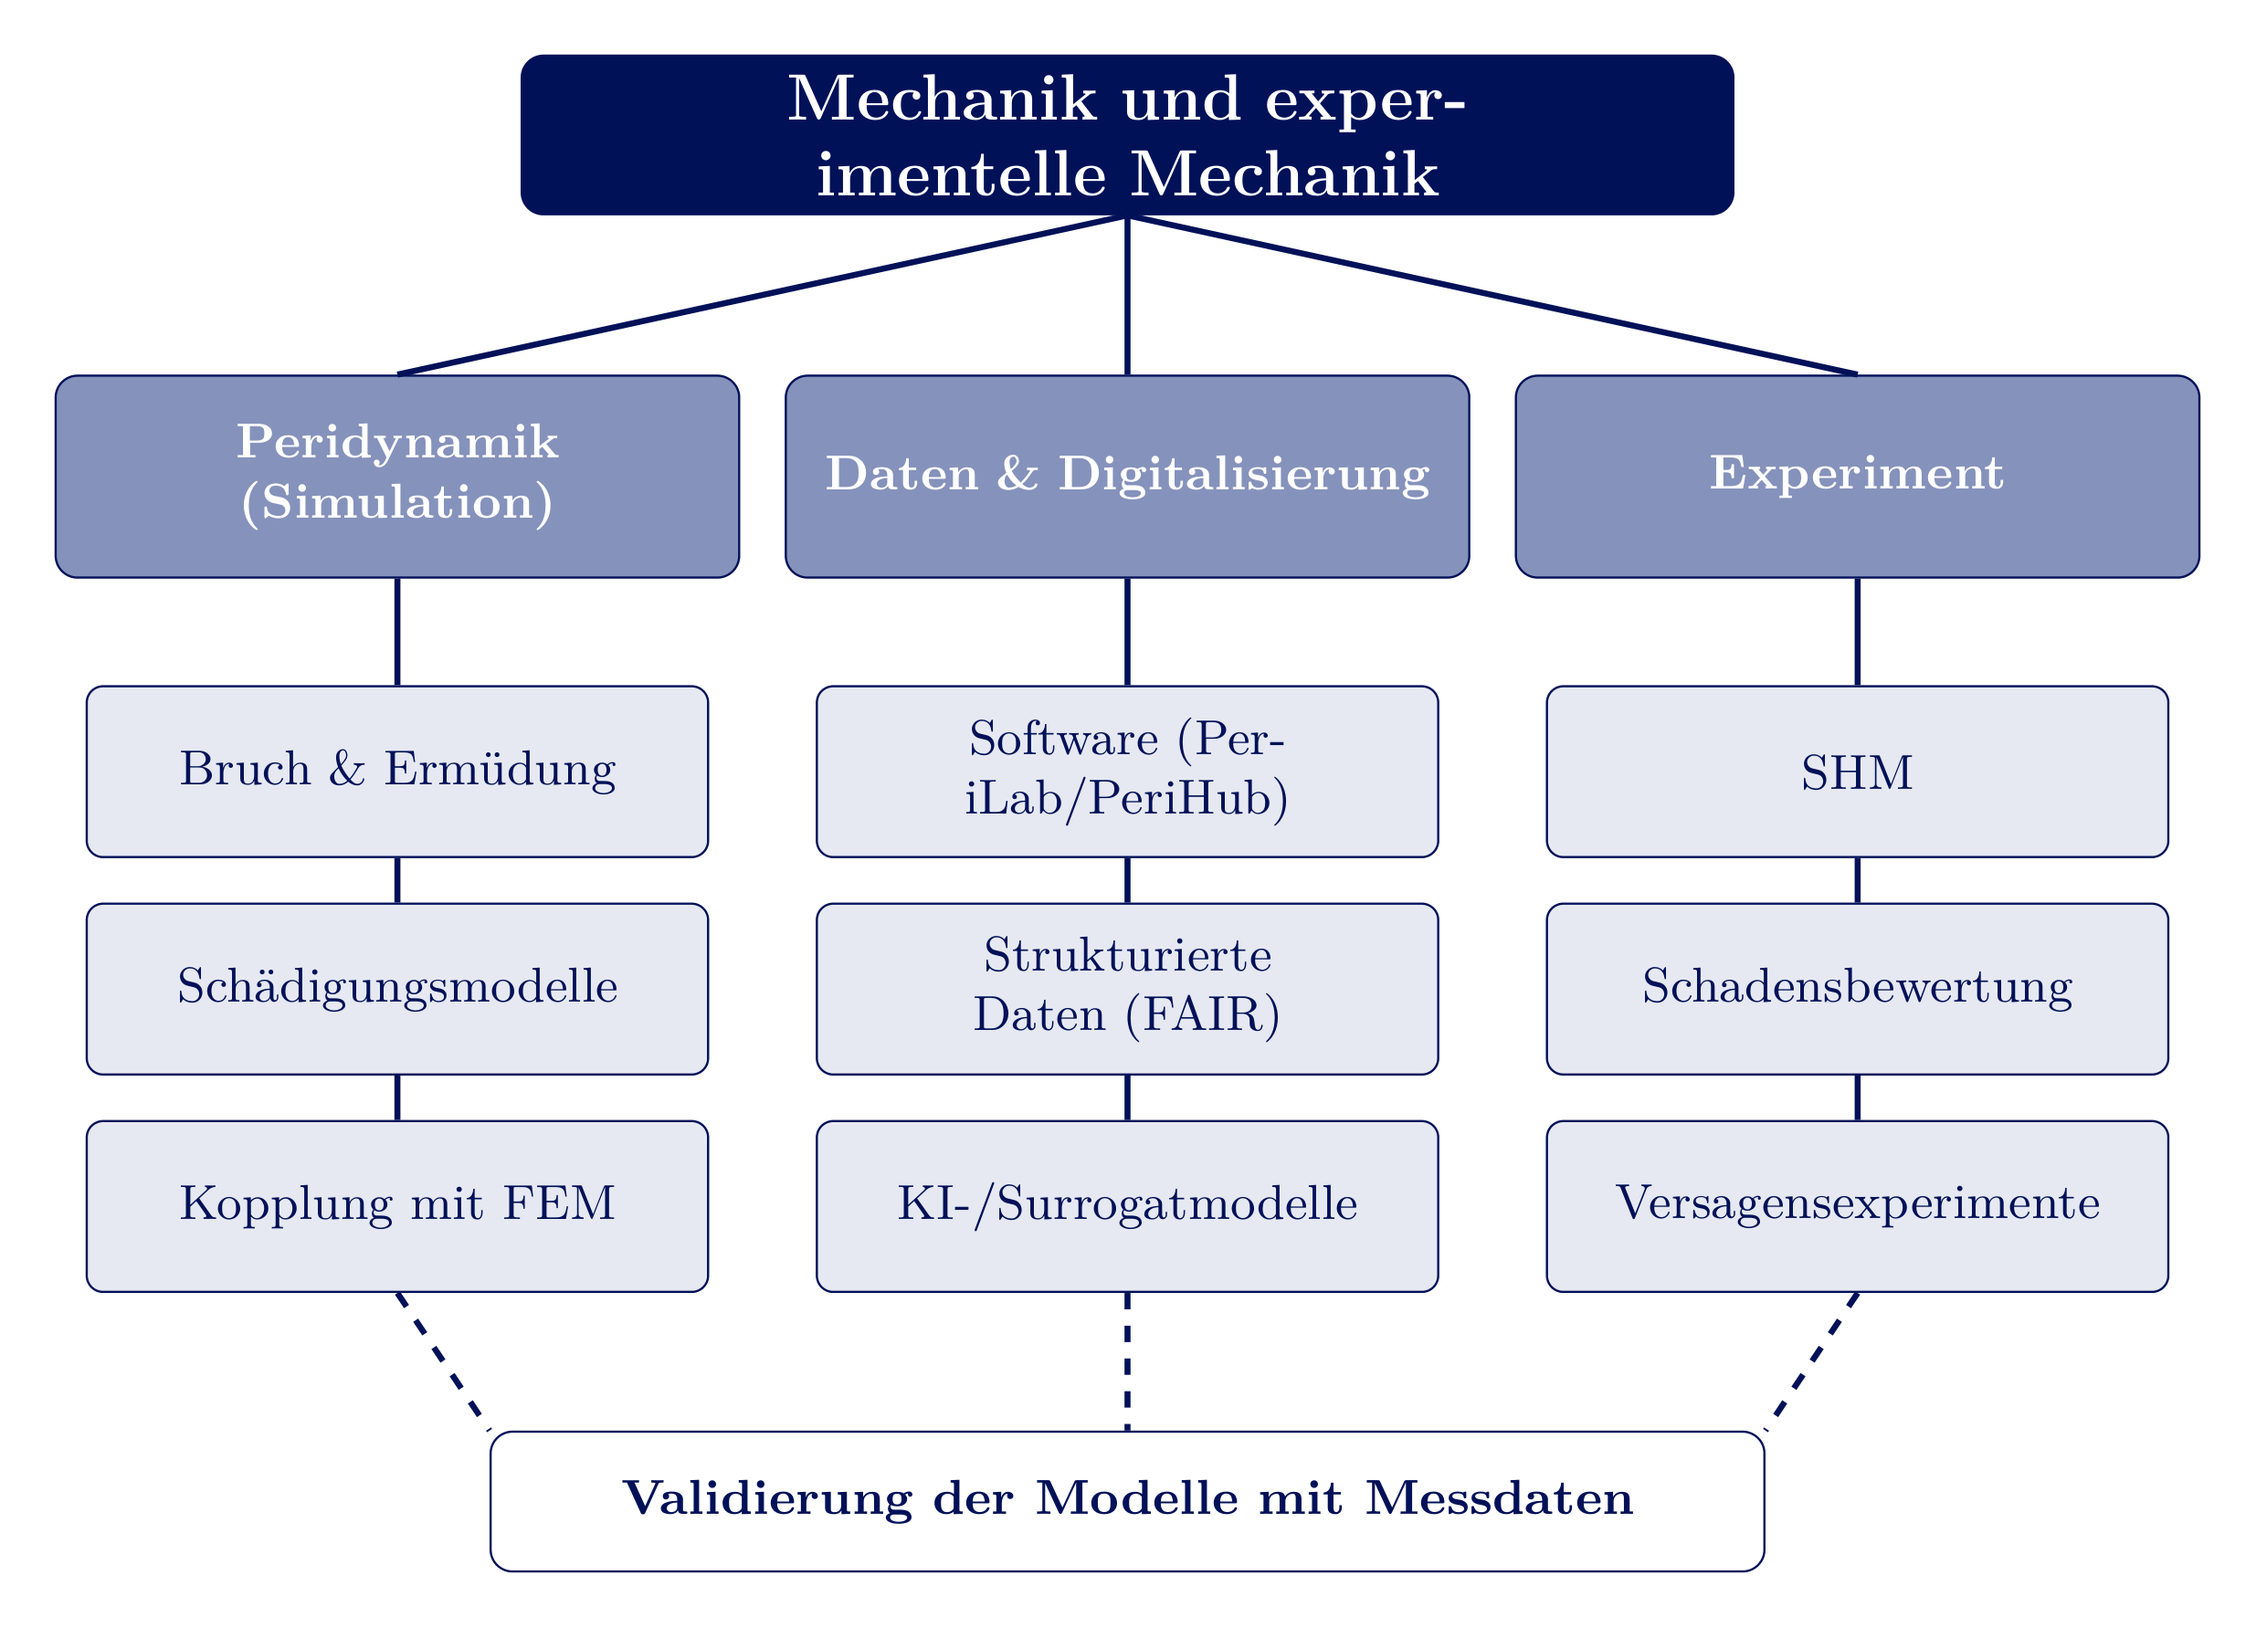
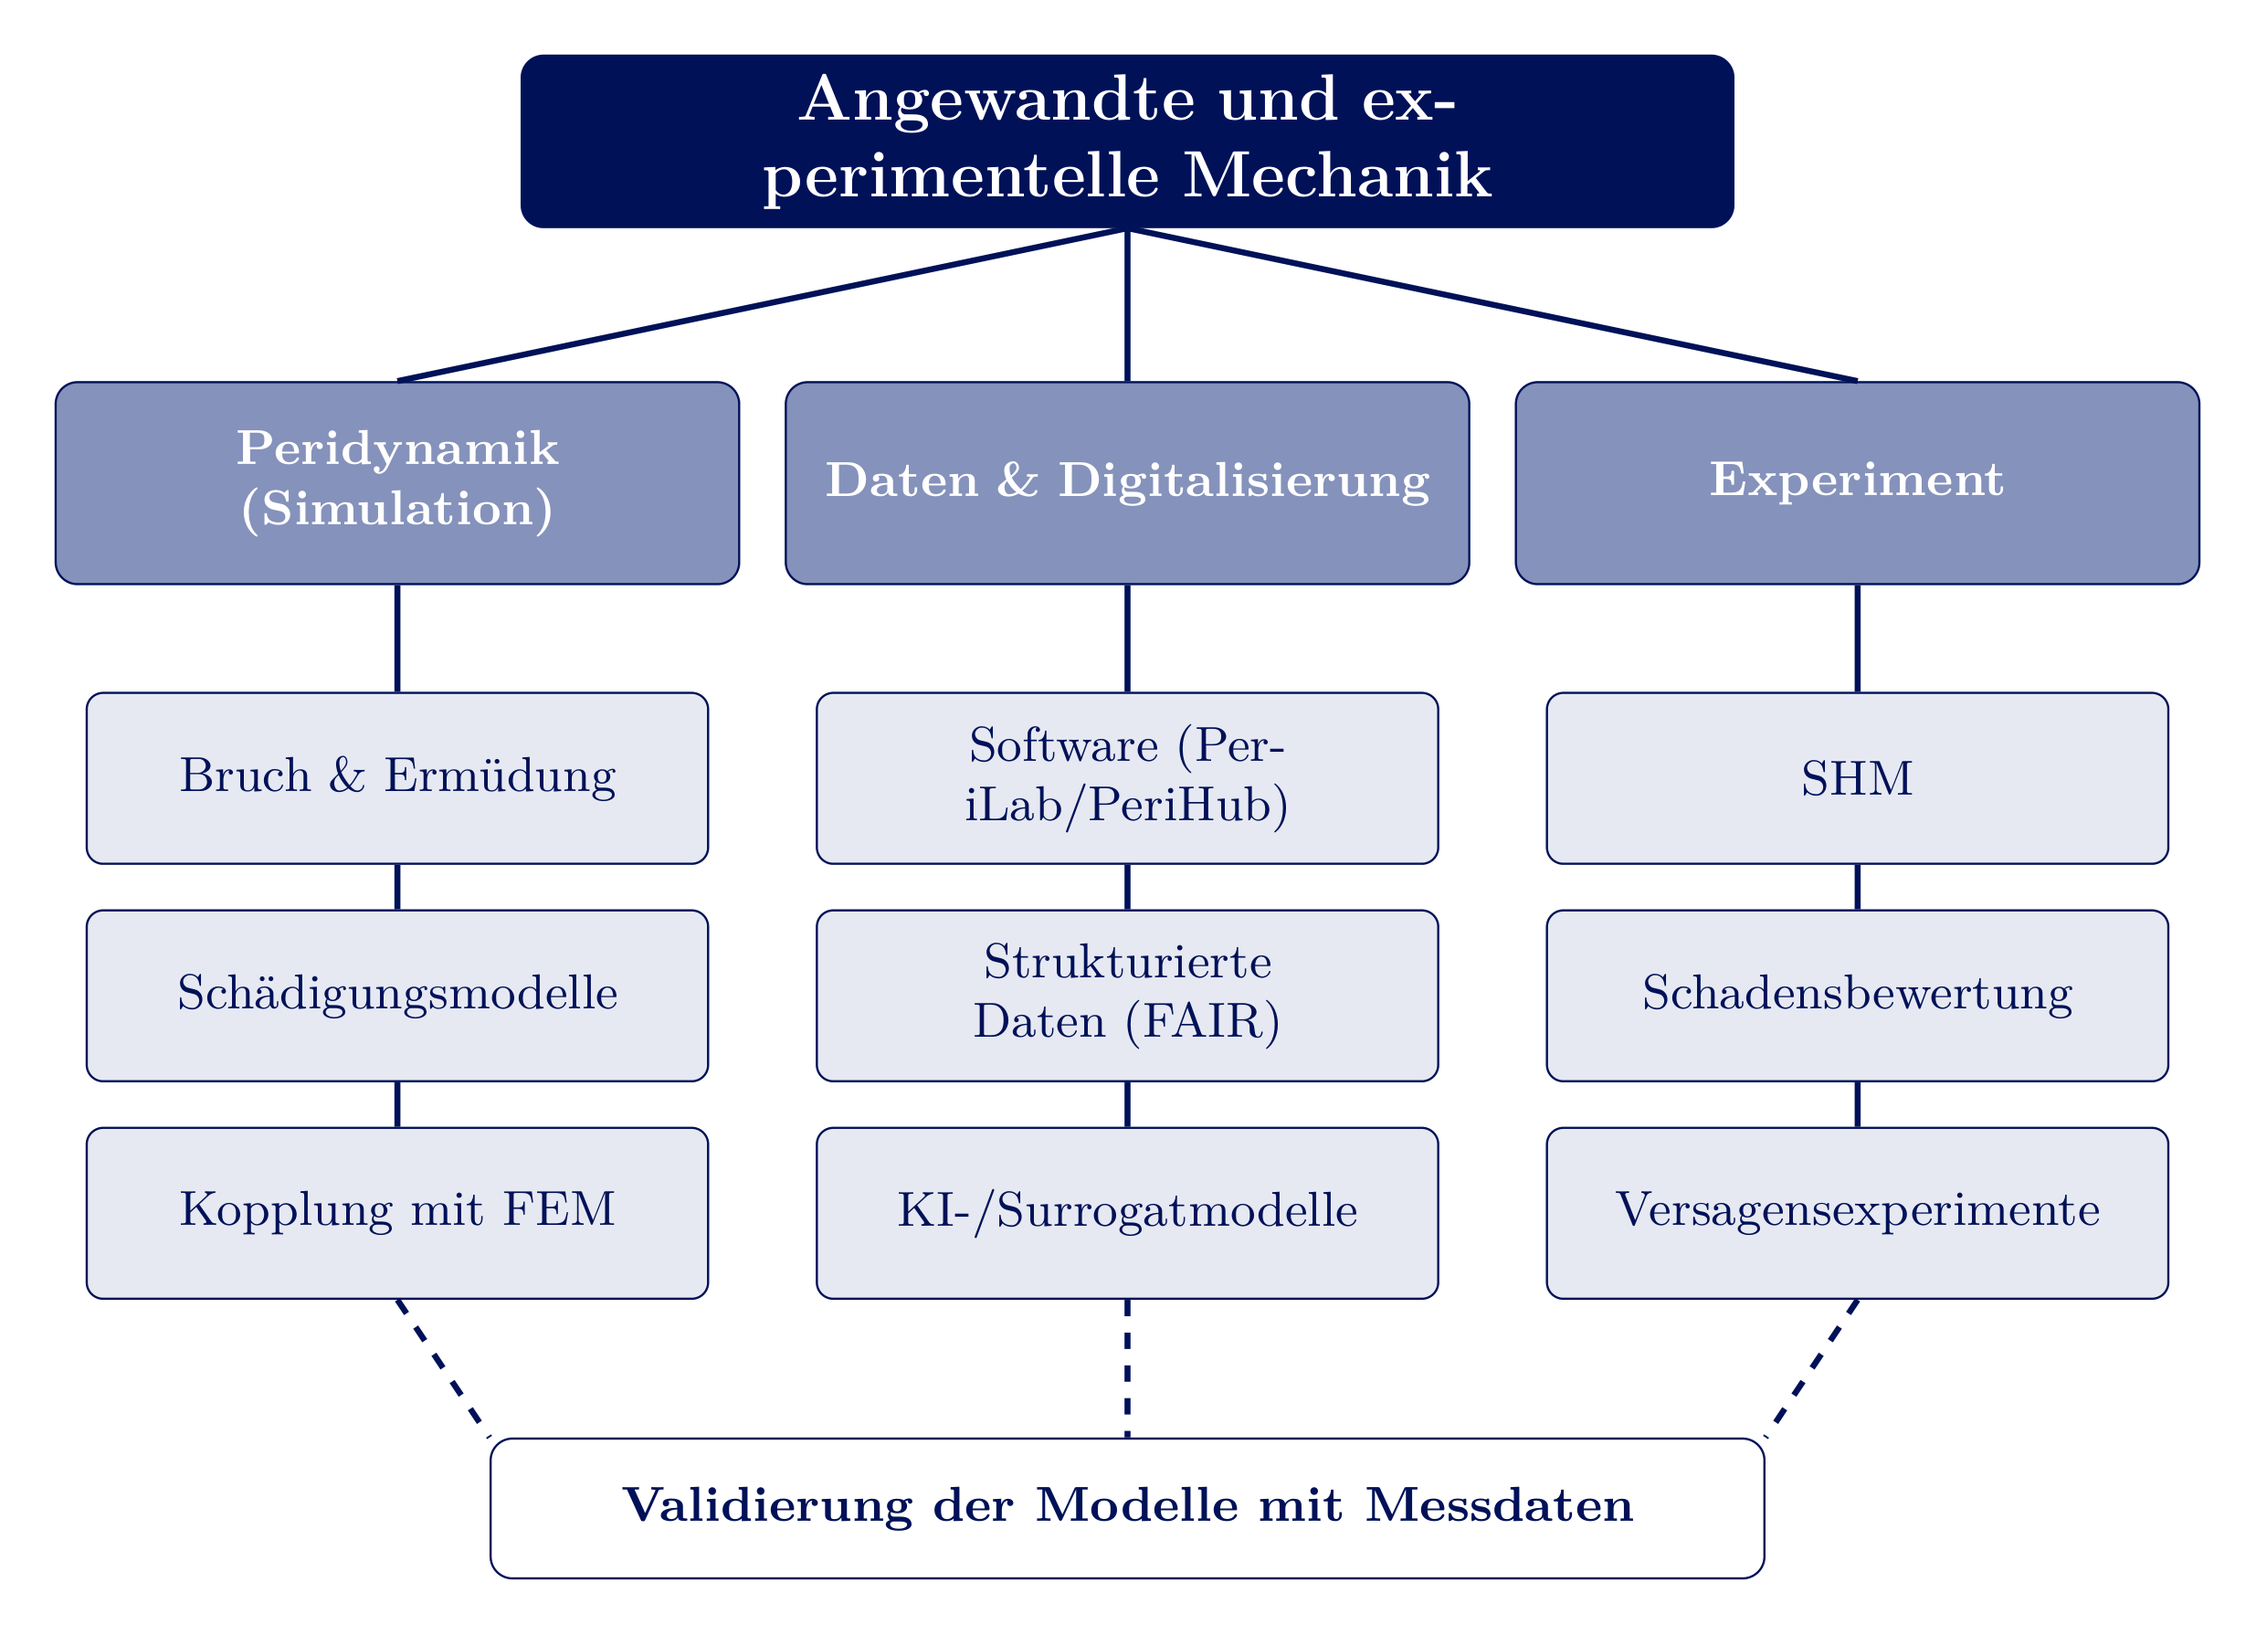
figure update

diff --git a/Berufungsvorlesung/forschungsstrategie/assets/forschung_figs.tex b/Berufungsvorlesung/forschungsstrategie/assets/forschung_figs.tex
@@ -20,7 +20,7 @@
 
 % ---------- PAGE 1: three research pillars (tree) ----------
 \begin{tikzpicture}[>=stealth]
-  \node[rootnode] (root) at (6.2,9.0) {Mechanik und experimentelle Mechanik};
+  \node[rootnode] (root) at (6.2,9.0) {Angewandte und experimentelle Mechanik};
 
   \node[pillarnode] (pd) at (1.5,6.8) {Peridynamik (Simulation)};
   \node[pillarnode] (dig) at (6.2,6.8) {Daten \& Digitalisierung};
